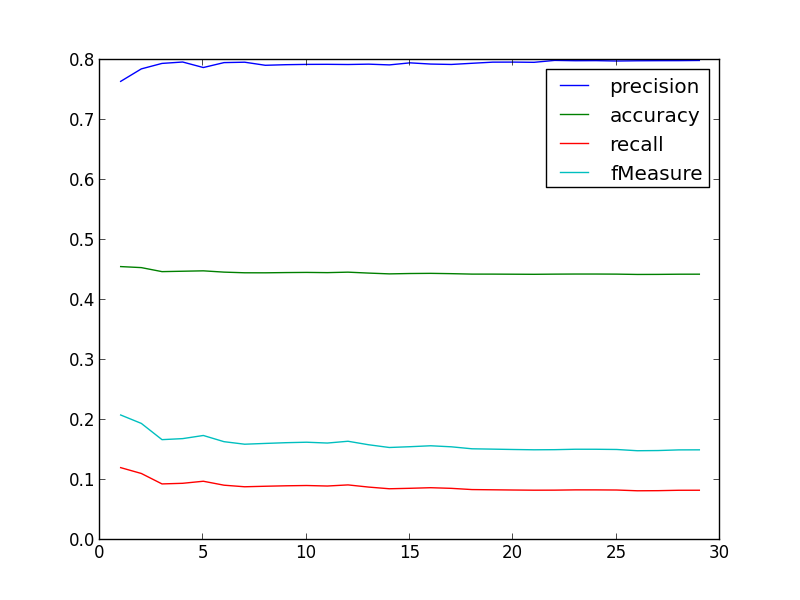
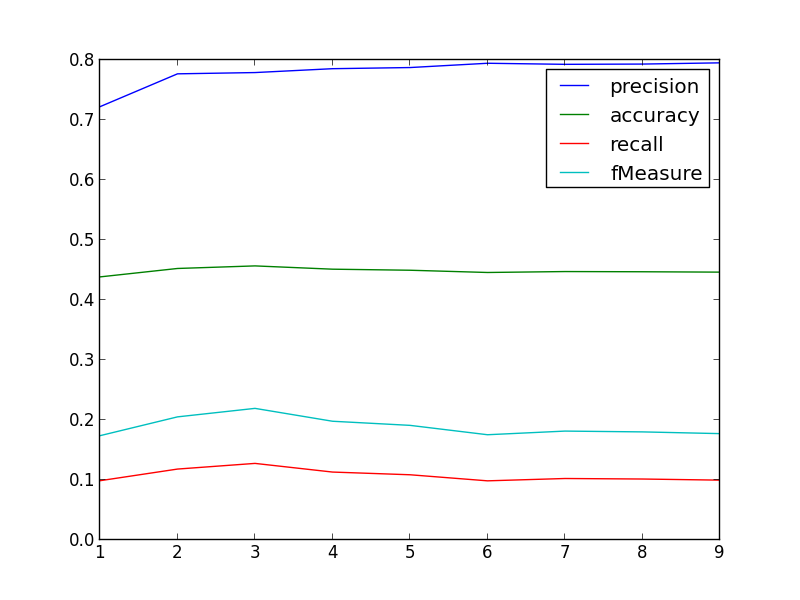
Change back matlab code...

diff --git a/matlab/plot.py b/matlab/plot.py
@@ -3,27 +3,19 @@ import pylab as pl
 
 def main():
     file1 = parseData("matlab/precision.txt")
-    pre_x = file1[0]
-    pre_y = file1[1]
-    pl.plot(pre_x, pre_y, label='precision')
+    pl.plot(file1[0], file1[1], label='precision')
     pl.legend()
     
-    file1 = parseData("matlab/accuracy.txt")
-    pre_x = file1[0]
-    pre_y = file1[1]
-    pl.plot(pre_x, pre_y, label='accuracy')
+    file2 = parseData("matlab/accuracy.txt")
+    pl.plot(file2[0], file2[1], label='accuracy')
     pl.legend()
     
-    file1 = parseData("matlab/recall.txt")
-    pre_x = file1[0]
-    pre_y = file1[1]
-    pl.plot(pre_x, pre_y, label='recall')
+    file3 = parseData("matlab/recall.txt")
+    pl.plot(file3[0], file3[1], label='recall')
     pl.legend()
     
-    file1 = parseData("matlab/fMeasure.txt")
-    pre_x = file1[0]
-    pre_y = file1[1]
-    pl.plot(pre_x, pre_y, label='fMeasure')
+    file4 = parseData("matlab/fMeasure.txt")
+    pl.plot(file4[0], file4[1], label='fMeasure')
     pl.legend()
     
     pl.savefig("matlab/result.png")

diff --git a/matlab/barPlot.m b/matlab/barPlot.m
@@ -1,12 +1,12 @@
-% A = load('matlab\precision.txt');
-% B = load('matlab\recall.txt');
-% C = load('matlab\accuracy.txt');
-% D = load('matlab\fMeasure.txt');
+A = load('matlab\precision.txt');
+B = load('matlab\recall.txt');
+C = load('matlab\accuracy.txt');
+D = load('matlab\fMeasure.txt');
 
-A = load('precision.txt');
-B = load('recall.txt');
-C = load('accuracy.txt');
-D = load('fMeasure.txt');
+% A = load('precision.txt');
+% B = load('recall.txt');
+% C = load('accuracy.txt');
+% D = load('fMeasure.txt');
 
 figure(2)
 bar([A(:,2), B(:,2),C(:,2), D(:,2)])

diff --git a/matlab/linePlot.m b/matlab/linePlot.m
@@ -1,12 +1,12 @@
-% A = load('matlab\precision.txt');
-% B = load('matlab\recall.txt');
-% C = load('matlab\accuracy.txt');
-% D = load('matlab\fMeasure.txt');
+A = load('matlab\precision.txt');
+B = load('matlab\recall.txt');
+C = load('matlab\accuracy.txt');
+D = load('matlab\fMeasure.txt');
 
-A = load('precision.txt');
-B = load('recall.txt');
-C = load('accuracy.txt');
-D = load('fMeasure.txt');
+% A = load('precision.txt');
+% B = load('recall.txt');
+% C = load('accuracy.txt');
+% D = load('fMeasure.txt');
 
 figure(1)
 plot(A(:,1),A(:,2), 'b');

diff --git a/src/edu/cmu/al/main/Main.java b/src/edu/cmu/al/main/Main.java
@@ -11,7 +11,7 @@ import edu.cmu.al.ml.Regression;
  * 
  */
 public class Main {
-	public static int round = 30;
+	public static int round = 10;
 
 	public static void main(String[] args) {
 		System.out.println("DB initializing...");
